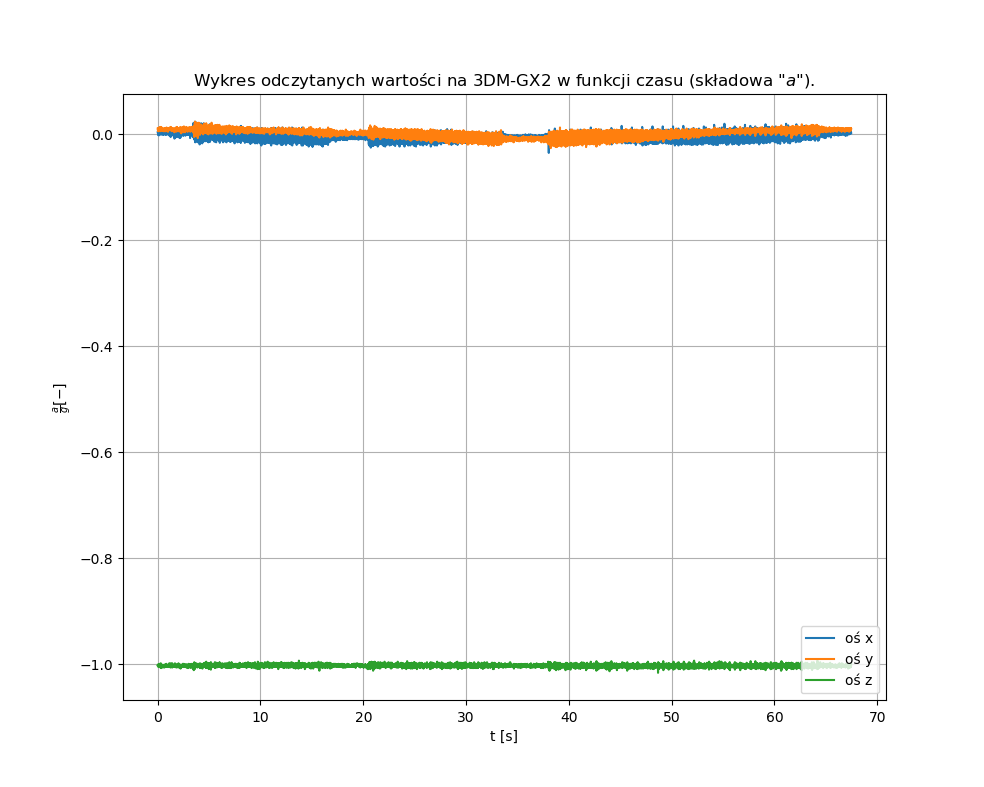
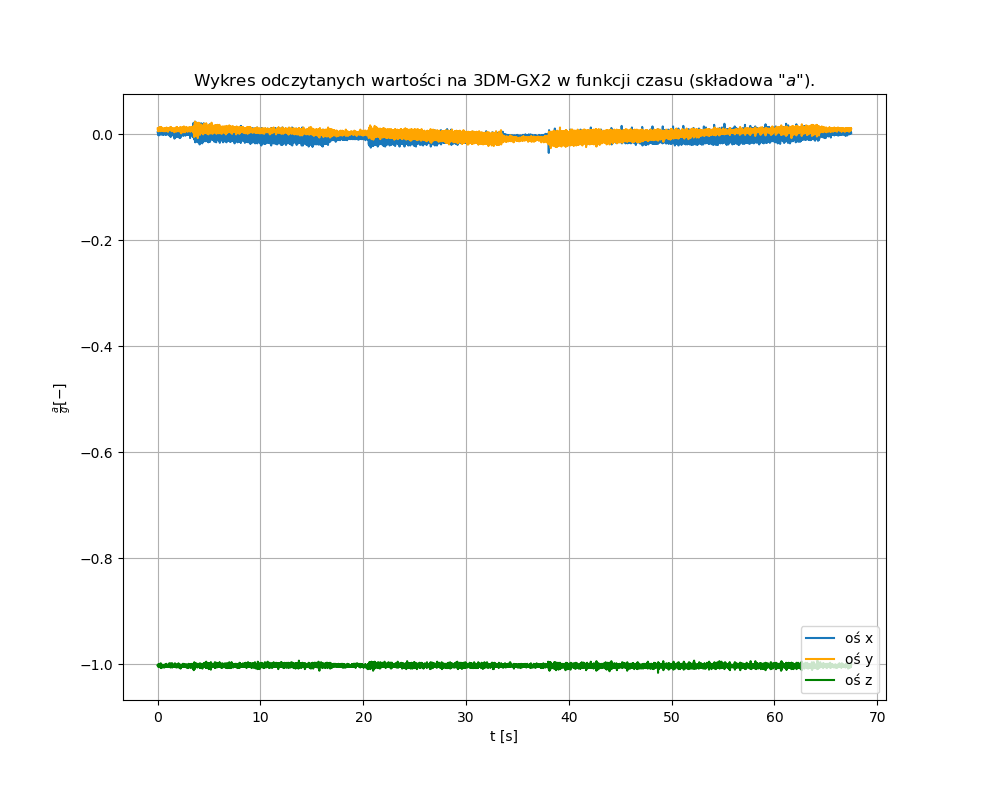
Zmieniono kolory wykresów

Changed region(s): [[0.1524, 0.1525, 0.8537, 0.183], [0.1524, 0.8234, 0.8232, 0.8539]]

diff --git a/main.py b/main.py
@@ -15,6 +15,8 @@ f2_data = [[],[],[],[],[],[],[]]
 gx1_data = [[],[],[],[],[],[],[]]
 gx2_data = [[],[],[],[],[],[],[]]
 
+color_tab = ["#1978bb", "orange", "green"]
+
 
 def quat_init(phi, theta, psi):
     q0 = math.cos(psi/2)*math.cos(theta/2)*math.cos(phi/2)+math.sin(psi/2)*math.sin(theta/2)*math.sin(phi/2)
@@ -168,9 +170,9 @@ gx1_file.close()
 #przyspieszenie
 plt.figure(figsize = (25/2.54, 20/2.54))
 plt.subplot(111)
-plt.plot(f1_data[0], f1_data[1], label="x")
-plt.plot(f1_data[0], f1_data[2], label="y")
-plt.plot(f1_data[0], f1_data[3], label="z")
+plt.plot(f1_data[0], f1_data[1], label="x", color = color_tab[0])
+plt.plot(f1_data[0], f1_data[2], label="y", color = color_tab[1])
+plt.plot(f1_data[0], f1_data[3], label="z", color = color_tab[2])
 #plt.plot([f1_data[0][indx], f1_data[0][indx]], [-300, 300], label = "granica pomiaru do skalowania")
 plt.grid(True)
 plt.title("Wykres odczytanego napięcia na IMU-ZAIOL-01 w funkcji czasu (składowa \"$a$\").")
@@ -183,9 +185,9 @@ plt.savefig("output/IMU-ZAIOL-01_1_a_U_t.png")
 #obrót
 plt.figure(figsize = (25/2.54, 20/2.54))
 plt.subplot(111)
-plt.plot(f2_data[0], f2_data[4], label="oś x")
-plt.plot(f2_data[0], f2_data[5], label="oś y")
-plt.plot(f2_data[0], f2_data[6], label="oś z")
+plt.plot(f2_data[0], f2_data[4], label="oś x", color = color_tab[0])
+plt.plot(f2_data[0], f2_data[5], label="oś y", color = color_tab[1])
+plt.plot(f2_data[0], f2_data[6], label="oś z", color = color_tab[2])
 plt.grid(True)
 plt.title("Wykres odczytanego napięcia na IMU-ZAIOL-01 w funkcji czasu (składowa \"$\omega$\").")
 plt.ylabel(r"U $\left [ V \right ]$")
@@ -196,9 +198,9 @@ plt.savefig("output/IMU-ZAIOL-01_2_U_w_t.png")
 #3DM-GX2
 plt.figure(figsize = (25/2.54, 20/2.54))
 plt.subplot(111)
-plt.plot(gx1_data[0], gx1_data[1], label="oś x")
-plt.plot(gx1_data[0], gx1_data[2], label="oś y")
-plt.plot(gx1_data[0], gx1_data[3], label="oś z")
+plt.plot(gx1_data[0], gx1_data[1], label="oś x", color = color_tab[0])
+plt.plot(gx1_data[0], gx1_data[2], label="oś y", color = color_tab[1])
+plt.plot(gx1_data[0], gx1_data[3], label="oś z", color = color_tab[2])
 plt.grid(True)
 plt.title("Wykres odczytanych wartości na 3DM-GX2 w funkcji czasu (składowa \"$a$\").")
 plt.ylabel(r"$\frac{a}{g} \left [ - \right ]$")
@@ -213,9 +215,9 @@ for o in range(3):
 
 plt.figure(figsize = (25/2.54, 20/2.54))
 plt.subplot(111)
-plt.plot(gx1_data[0], gx1_converted[0], label="oś x")
-plt.plot(gx1_data[0], gx1_converted[1], label="oś y")
-plt.plot(gx1_data[0], gx1_converted[2], label="oś z")
+plt.plot(gx1_data[0], gx1_converted[0], label="oś x", color = color_tab[0])
+plt.plot(gx1_data[0], gx1_converted[1], label="oś y", color = color_tab[1])
+plt.plot(gx1_data[0], gx1_converted[2], label="oś z", color = color_tab[2])
 plt.grid(True)
 plt.title("Wykres odczytanych wartości na 3DM-GX2 w funkcji czasu (składowa \"$\omega$\").")
 plt.ylabel(r"$\omega \left [ \frac{^\circ}{s} \right ]$")
@@ -226,9 +228,9 @@ plt.savefig("output/3DM-GX2_1_w.png")
 
 plt.figure(figsize = (25/2.54, 20/2.54))
 plt.subplot(111)
-plt.plot(gx2_data[0], gx2_data[1], label="oś x")
-plt.plot(gx2_data[0], gx2_data[2], label="oś y")
-plt.plot(gx2_data[0], gx2_data[3], label="oś z")
+plt.plot(gx2_data[0], gx2_data[1], label="oś x", color = color_tab[0])
+plt.plot(gx2_data[0], gx2_data[2], label="oś y", color = color_tab[1])
+plt.plot(gx2_data[0], gx2_data[3], label="oś z", color = color_tab[2])
 plt.grid(True)
 plt.title("Wykres odczytanych wartości na 3DM-GX2 w funkcji czasu (składowa \"$a$\").")
 plt.ylabel(r"$\frac{a}{g} \left [ - \right ]$")
@@ -244,9 +246,9 @@ for o in range(3):
 
 plt.figure(figsize = (25/2.54, 20/2.54))
 plt.subplot(111)
-plt.plot(gx2_data[0], gx2_converted[0], label="oś x")
-plt.plot(gx2_data[0], gx2_converted[1], label="oś y")
-plt.plot(gx2_data[0], gx2_converted[2], label="oś z")
+plt.plot(gx2_data[0], gx2_converted[0], label="oś x", color = color_tab[0])
+plt.plot(gx2_data[0], gx2_converted[1], label="oś y", color = color_tab[1])
+plt.plot(gx2_data[0], gx2_converted[2], label="oś z", color = color_tab[2])
 plt.grid(True)
 plt.title("Wykres odczytanych wartości na 3DM-GX2 w funkcji czasu (składowa \"$\omega$\").")
 plt.ylabel(r"$\omega \left [ \frac{^\circ}{s} \right ]$")
@@ -307,9 +309,9 @@ gx1_file_kin.close()
 #rysowanie wykresu 3d kwaternionów
 plt.figure(figsize = (25/2.54, 20/2.54))
 plt.subplot(111)
-plt.plot(gx1_time_passed, gx1_angles[0], label="$\phi$")
-plt.plot(gx1_time_passed, gx1_angles[1], label=r"$\theta$")
-plt.plot(gx1_time_passed, gx1_angles[2], label="$\psi$")
+plt.plot(gx1_time_passed, gx1_angles[0], label="$\phi$", color = color_tab[0])
+plt.plot(gx1_time_passed, gx1_angles[1], label=r"$\theta$", color = color_tab[1])
+plt.plot(gx1_time_passed, gx1_angles[2], label="$\psi$", color = color_tab[2])
 plt.grid(True)
 plt.title("Wykres kątów orientacji obliczonych kwaternionami w funkcji czasu.")
 plt.ylabel(r"kąt $\left [ ^\circ \right ]$")
@@ -319,9 +321,9 @@ plt.savefig("output/3DM-GX2_2_ang.png")
 
 plt.figure(figsize = (25/2.54, 20/2.54))
 plt.subplot(111)
-plt.plot(gx1_time_passed_kin, gx1_angles_kin[0], label="$\phi$")
-plt.plot(gx1_time_passed_kin, gx1_angles_kin[1], label=r"$\theta$")
-plt.plot(gx1_time_passed_kin, gx1_angles_kin[2], label="$\psi$")
+plt.plot(gx1_time_passed_kin, gx1_angles_kin[0], label="$\phi$", color = color_tab[0])
+plt.plot(gx1_time_passed_kin, gx1_angles_kin[1], label=r"$\theta$", color = color_tab[1])
+plt.plot(gx1_time_passed_kin, gx1_angles_kin[2], label="$\psi$", color = color_tab[2])
 plt.grid(True)
 plt.title("Wykres kątów orientacji obliczonych równaniami kinematycznymi w funkcji czasu.")
 plt.ylabel(r"kąt $\left [ ^\circ \right ]$")
@@ -331,12 +333,12 @@ plt.savefig("output/3DM-GX2_2_ang_kin.png")
 
 plt.figure(figsize = (25/2.54, 20/2.54))
 plt.subplot(111)
-plt.plot(gx1_time_passed_kin, gx1_angles_kin[0], label="$\phi_{kin}$")
-plt.plot(gx1_time_passed_kin, gx1_angles_kin[1], label=r"$\theta_{kin}$")
-plt.plot(gx1_time_passed_kin, gx1_angles_kin[2], label="$\psi_{kin}$")
-plt.plot(gx1_time_passed, gx1_angles[0], '--', label=r"$\phi_{quat}$")
-plt.plot(gx1_time_passed, gx1_angles[1], '--', label=r"$\theta_{quat}$")
-plt.plot(gx1_time_passed, gx1_angles[2], '--', label="$\psi_{quat}$")
+plt.plot(gx1_time_passed_kin, gx1_angles_kin[0], label="$\phi_{kin}$", color = color_tab[0])
+plt.plot(gx1_time_passed_kin, gx1_angles_kin[1], label=r"$\theta_{kin}$", color = color_tab[1])
+plt.plot(gx1_time_passed_kin, gx1_angles_kin[2], label="$\psi_{kin}$", color = color_tab[2])
+plt.plot(gx1_time_passed, gx1_angles[0], '--', label=r"$\phi_{quat}$", color = color_tab[0])
+plt.plot(gx1_time_passed, gx1_angles[1], '--', label=r"$\theta_{quat}$", color = color_tab[1])
+plt.plot(gx1_time_passed, gx1_angles[2], '--', label="$\psi_{quat}$", color = color_tab[2])
 plt.grid(True)
 plt.title("Porównanie wykresów kątów obliczonych obiema metodami")
 plt.ylabel(r"kąt $\left [ ^\circ \right ]$")
